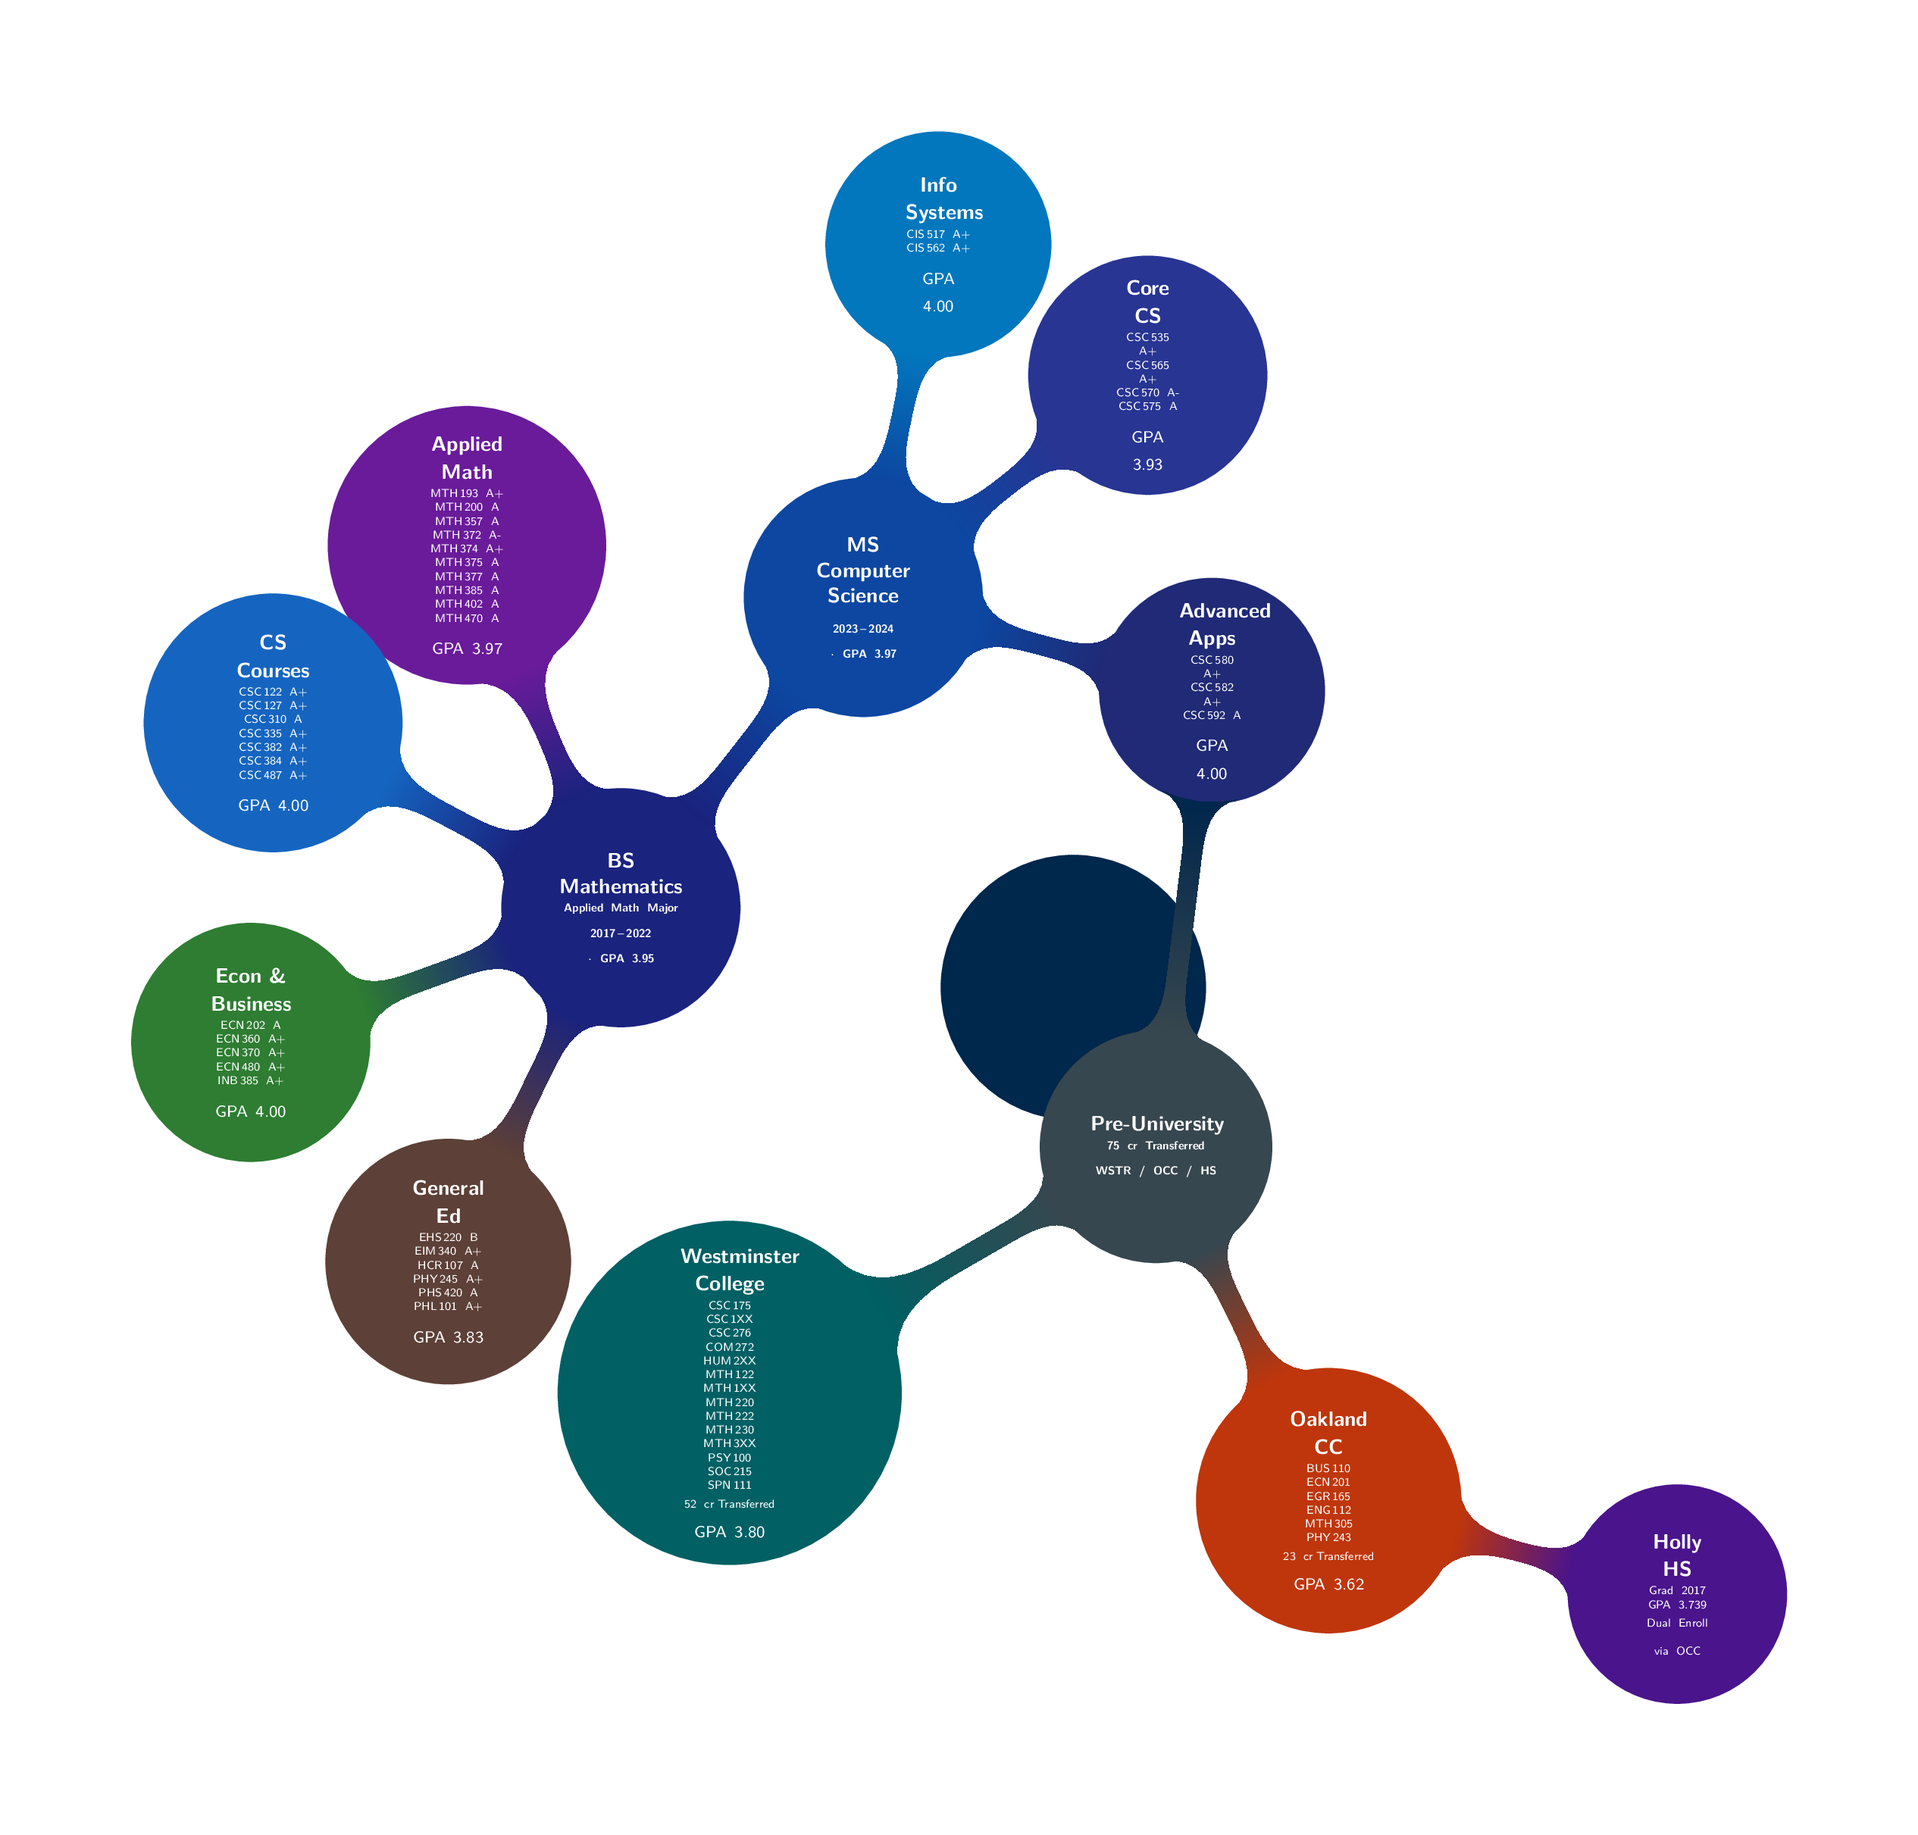
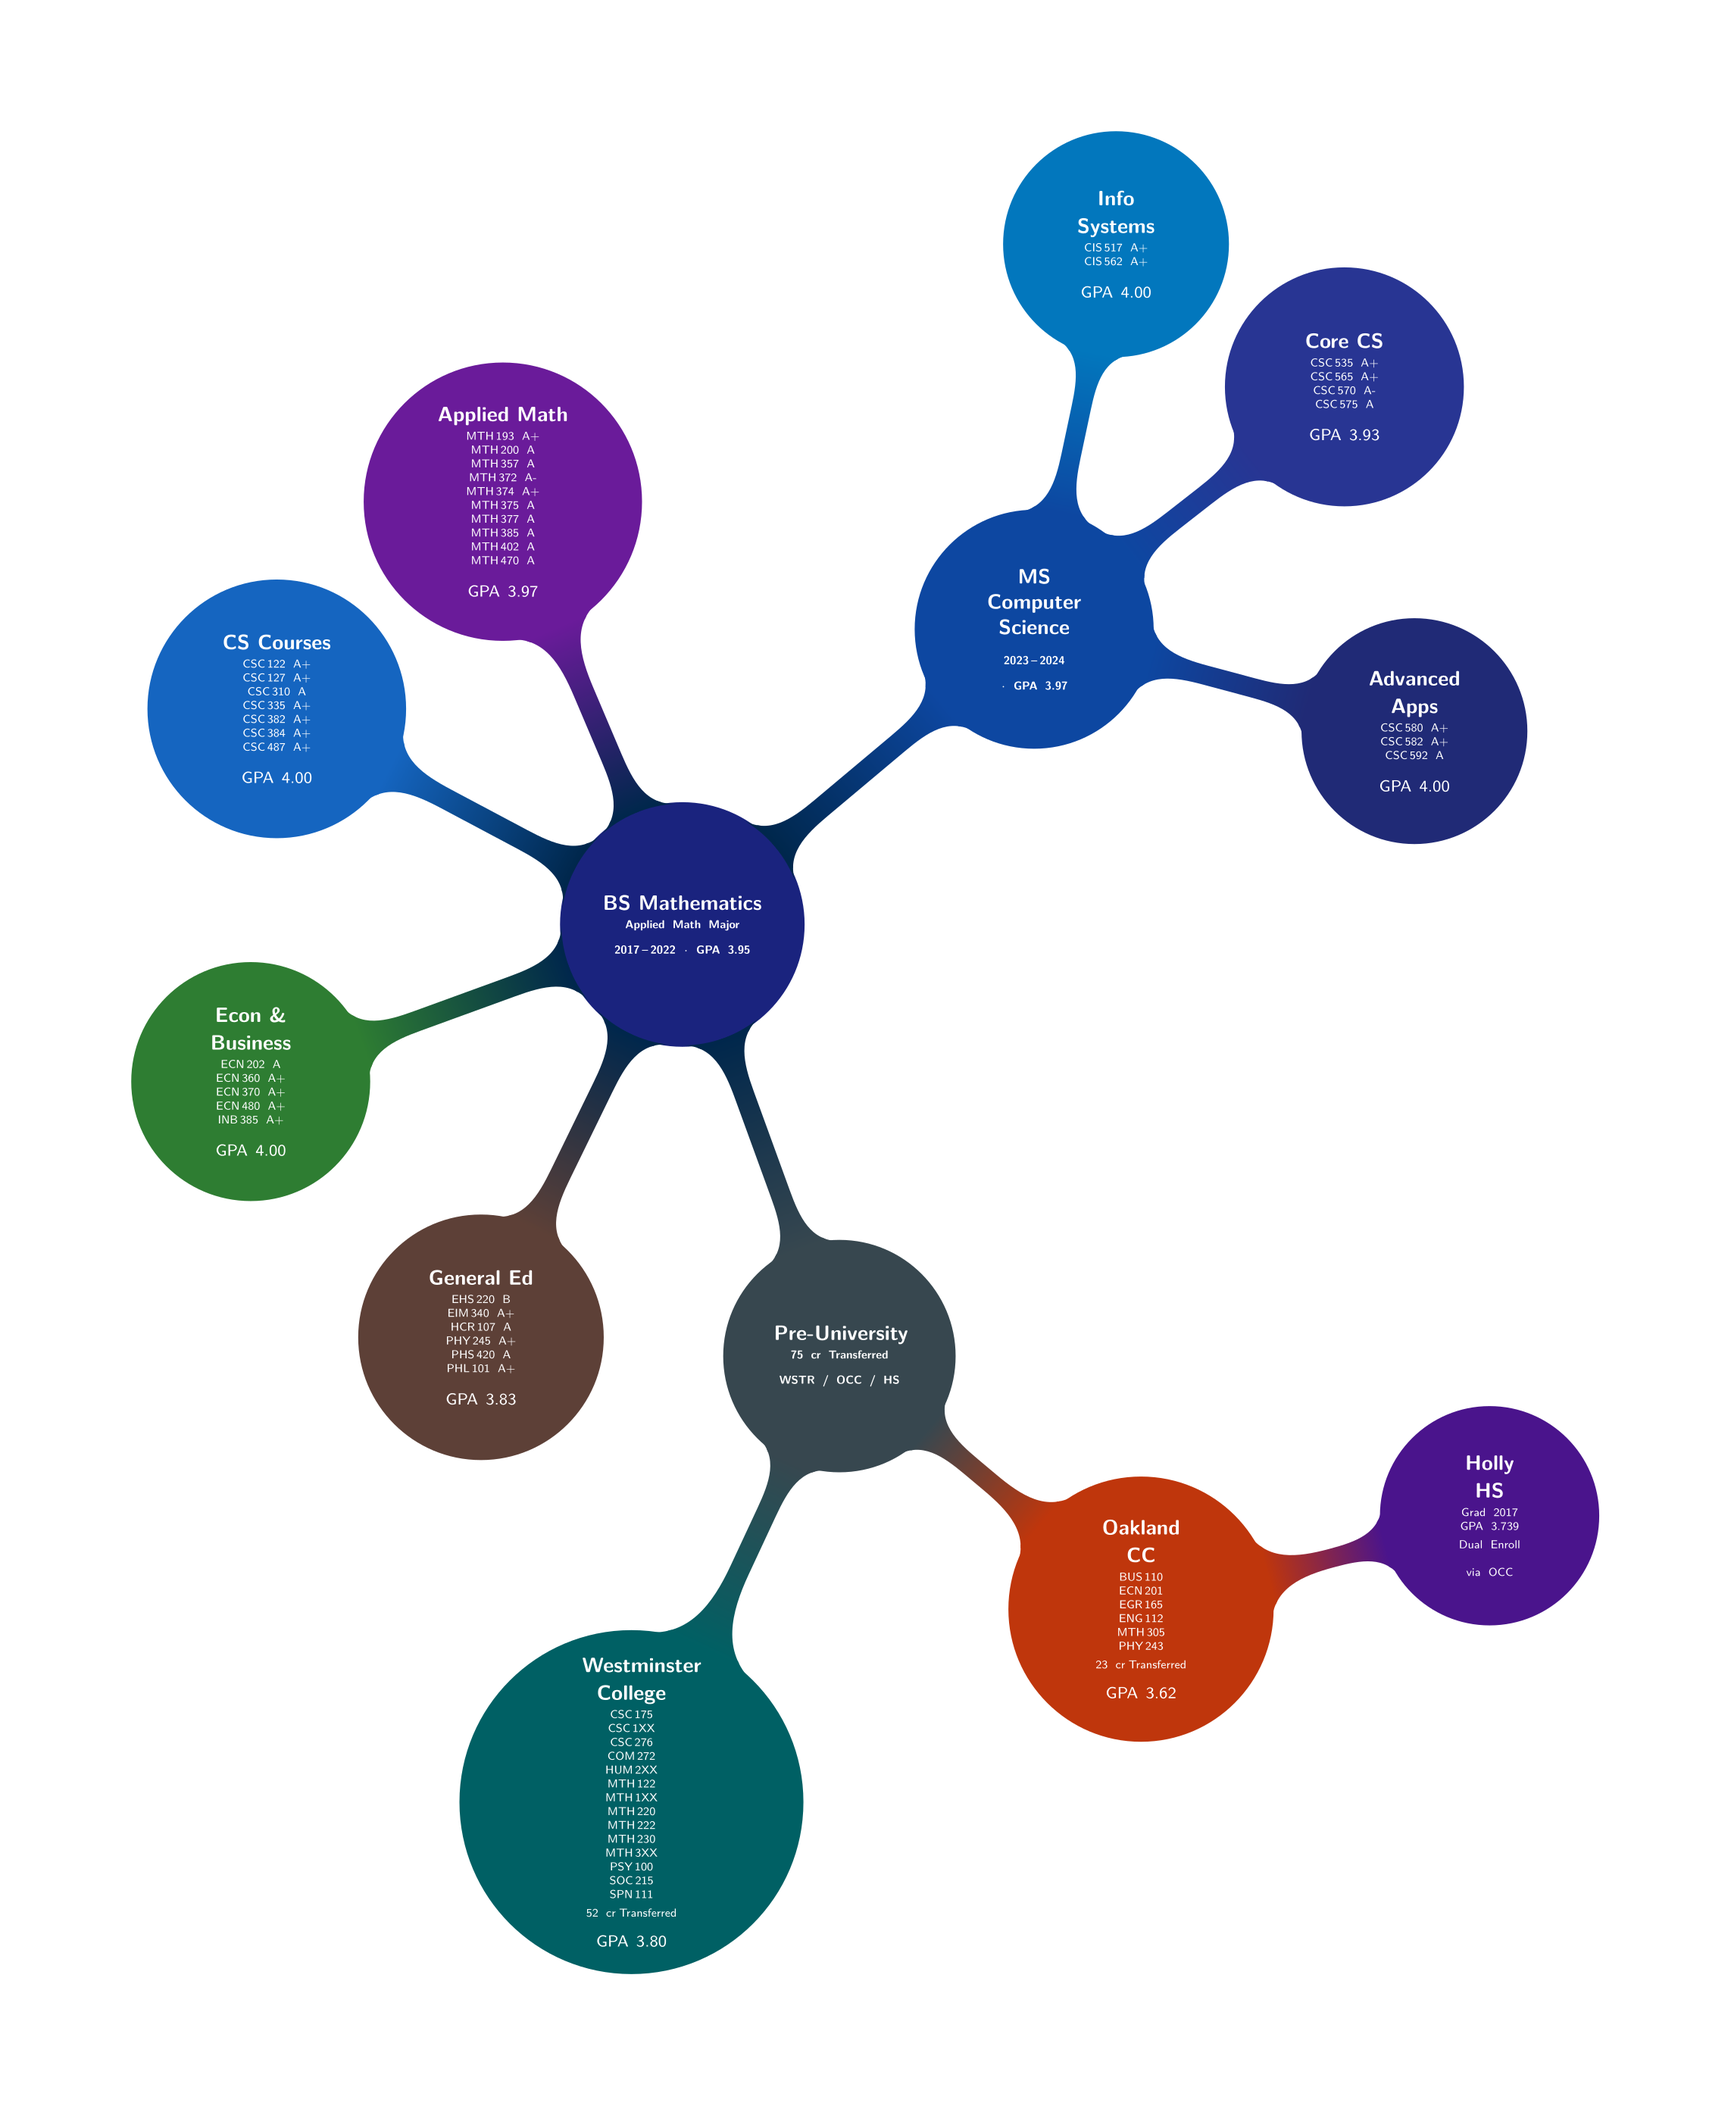
fix(docs): remove blank root circle and crossed connectors in course mindmap
The invisible-root hack (fill=none, minimum size=0pt, nulled shadow
style) broke pgf shape handling, so the junction rendered as a blank
filled circle and the source failed to compile cleanly. A blank line
before the Pre-University child also inserted a \par that made TikZ
ignore its grow angle, attaching it off the Advanced Apps branch.

BS Mathematics is now the real root, with MS CS (upper-right) and
Pre-University (down-right) as branches.

Claude-Session: https://claude.ai/code/session_01AWaiZUfNY2teyZvtCtucag

diff --git a/docs/course-mindmap.tex b/docs/course-mindmap.tex
@@ -31,27 +31,16 @@
     level 1/.append style={level distance=7cm},
     level 2/.append style={level distance=6cm},
     level 3/.append style={level distance=5.5cm},
-    %% Hide the root junction node
-    root concept/.append style={
-        fill=none, draw=none, text opacity=0,
-        minimum size=0pt, inner sep=0pt,
-        circular drop shadow/.style={}
-    },
 ]
 
-%% ── Root (invisible junction) ────────────────────────────────────────────────
-\node {}
-
-%% ── BS Mathematics (upper-left) ──────────────────────────────────────────────
-%% MS CS is a child of BS Math to show the BS→MS progression.
-%% BS Math children fan from 113° (upper) to 245° (lower-left) plus
-%% MS CS at 52° (back toward upper-right).
-child[concept color=bsblue, grow=170] {
-    node[minimum size=3.6cm, font=\sffamily\bfseries\small] {
-        BS Mathematics\\[2pt]
-        \tiny Applied Math Major\\
-        2017\,--\,2022 $\cdot$ GPA 3.95
-    }
+%% ── BS Mathematics (root) ────────────────────────────────────────────────────
+%% BS Math is the root: MS CS grows upper-right (BS→MS progression) and
+%% Pre-University grows down-right (transfer credits feeding the BS).
+\node[concept color=bsblue, minimum size=3.6cm, font=\sffamily\bfseries\small] {
+    BS Mathematics\\[2pt]
+    \tiny Applied Math Major\\
+    2017\,--\,2022 $\cdot$ GPA 3.95
+}
     child[concept color=mthpurple, grow=113] {
         node[minimum size=4.2cm] {
             \textbf{\small Applied Math}\\[2pt]
@@ -95,8 +84,8 @@ child[concept color=bsblue, grow=170] {
             {\scriptsize GPA 3.83}
         }
     }
-    %% MS CS: progression from BS Math, grows back upper-right
-    child[concept color=msblue, grow=52] {
+    %% MS CS: progression from BS Math, grows upper-right
+    child[concept color=msblue, grow=40] {
         node[minimum size=3.6cm, font=\sffamily\bfseries\small] {
             MS Computer\\Science\\[2pt]
             \tiny 2023\,--\,2024 $\cdot$ GPA 3.97
@@ -129,19 +118,18 @@ child[concept color=bsblue, grow=170] {
             }
         }
     }
-}
-
 %% ── Pre-University Transfer Credits (bottom) ─────────────────────────────────
-%% grow=265 ≈ straight down — clearly separated from Gen Ed (244° off BS Math).
+%% grow=290 (down-right), clear of Gen Ed at 244°.
+%% NB: no blank lines between children — a \par breaks TikZ child parsing.
 %% Holly HS is a child of OCC (dual-enrollment relationship).
-child[concept color=preunivgray, grow=263] {
+child[concept color=preunivgray, grow=290] {
     node[minimum size=3.5cm, font=\sffamily\bfseries\small] {
         Pre-University\\[2pt]
         \tiny
         75 cr Transferred\\
         WSTR / OCC / HS
     }
-    child[concept color=wstrteal, grow=210, level distance=7.5cm] {
+    child[concept color=wstrteal, grow=245, level distance=7.5cm] {
         node[minimum size=5.2cm] {
             \textbf{\small Westminster College}\\[2pt]
             \tiny
@@ -157,7 +145,7 @@ child[concept color=preunivgray, grow=263] {
         }
     }
     %% OCC: Holly HS is nested here to show dual-enrollment link
-    child[concept color=occred, grow=296] {
+    child[concept color=occred, grow=320] {
         node[minimum size=4.0cm] {
             \textbf{\small Oakland CC}\\[2pt]
             \tiny
@@ -168,7 +156,7 @@ child[concept color=preunivgray, grow=263] {
             {\scriptsize GPA 3.62}
         }
         %% Holly HS as child of OCC — dual-enrollment courses counted via OCC
-        child[concept color=hspurp, grow=345] {
+        child[concept color=hspurp, grow=15] {
             node[minimum size=3.3cm] {
                 \textbf{\small Holly HS}\\[2pt]
                 \tiny
